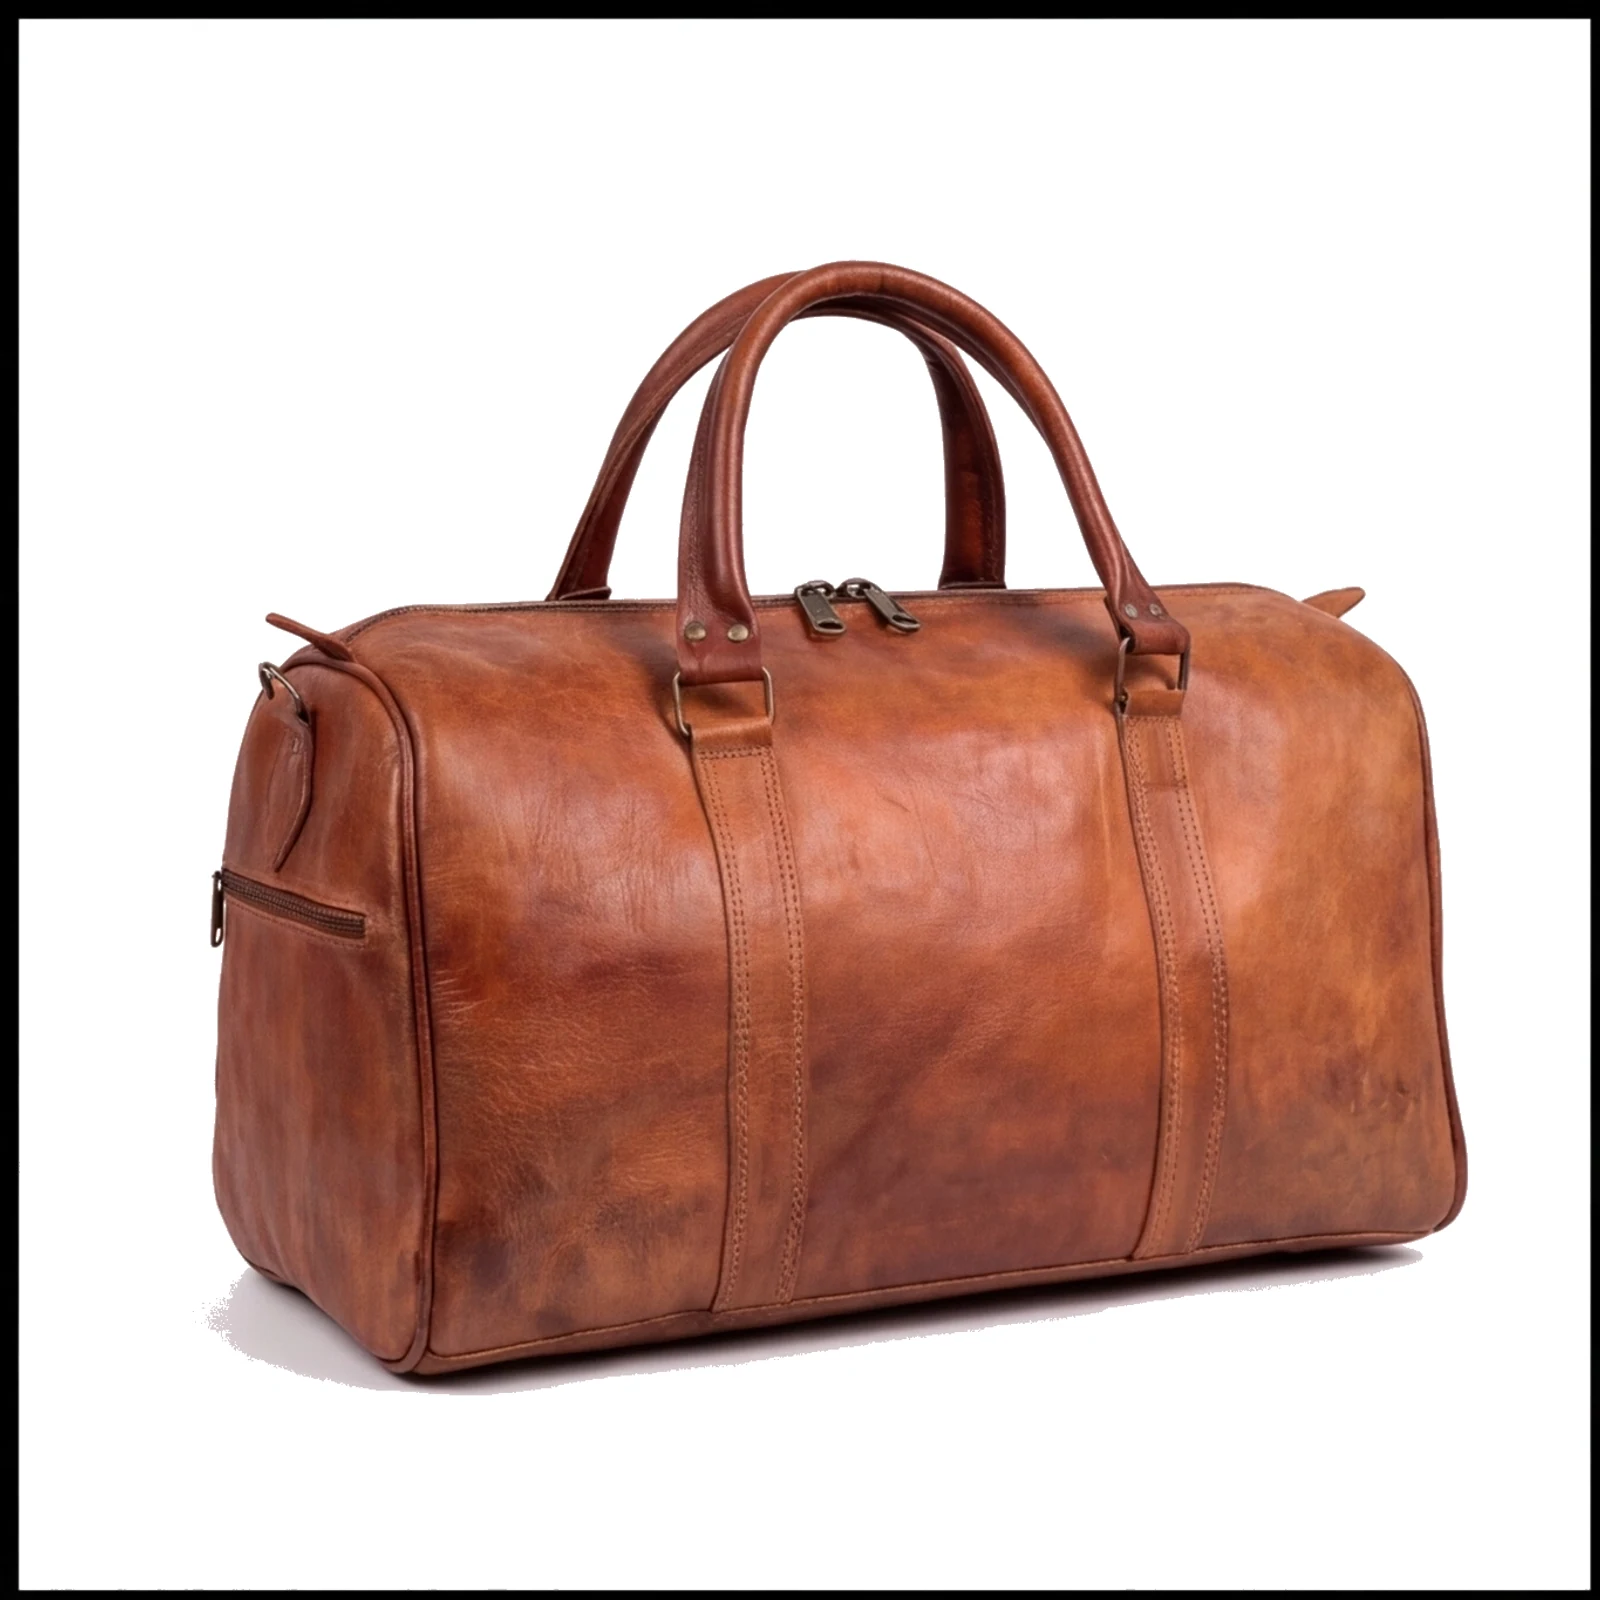
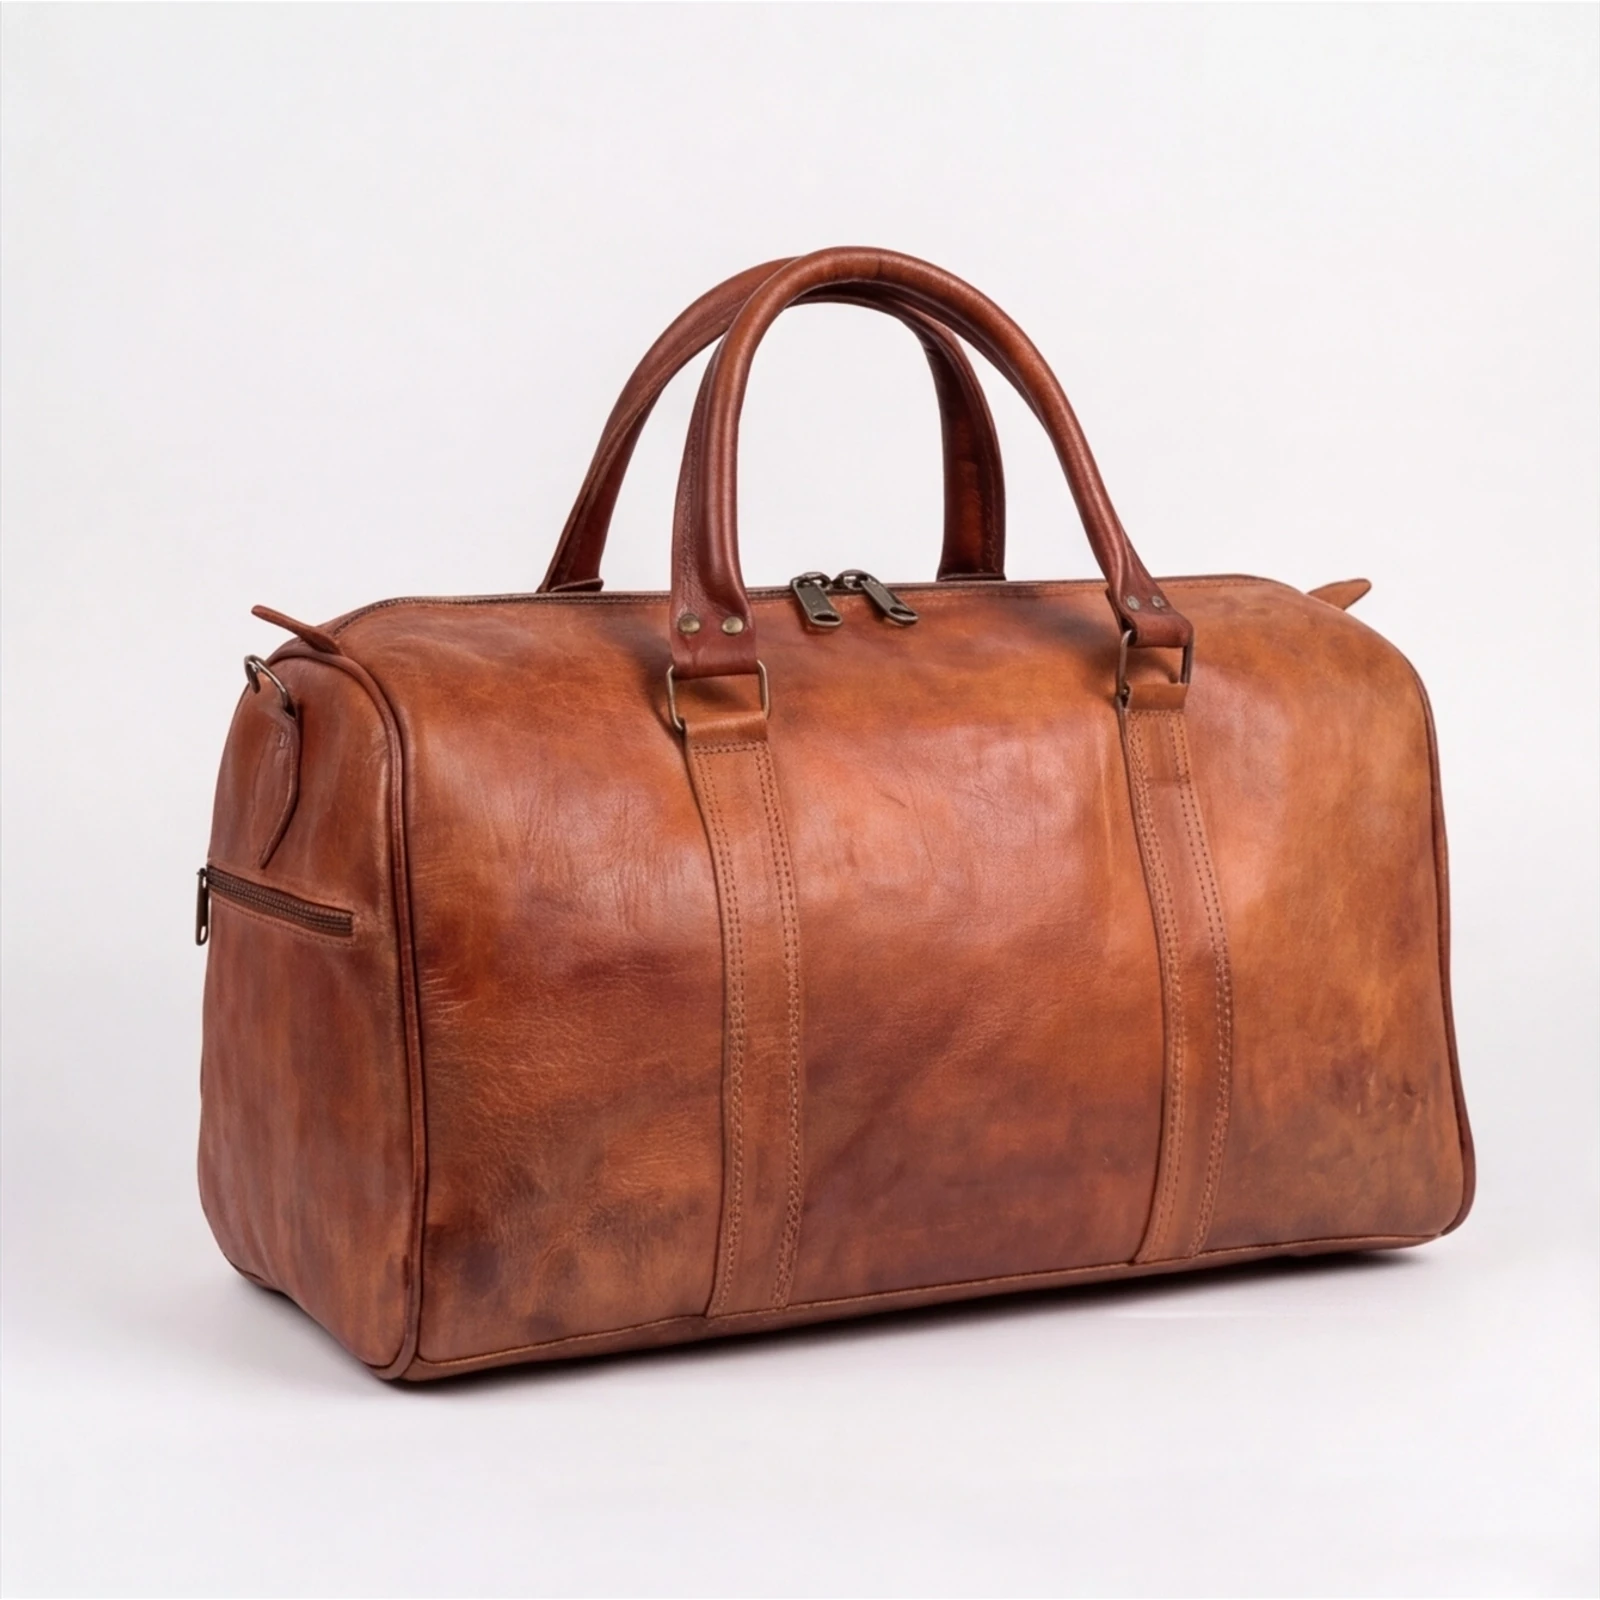
fix: remove black product frames

Changed region(s): [[0.0, 0.0, 1.0, 1.0]]

diff --git a/scripts/audit-public-links.ts b/scripts/audit-public-links.ts
@@ -14,7 +14,12 @@ const START_ROUTES = [
   "/checkout/pay",
 ];
 
-const ALLOWED_EXTERNAL_HOSTS = new Set(["instagram.com", "www.instagram.com"]);
+const ALLOWED_EXTERNAL_HOSTS = new Set([
+  "instagram.com",
+  "www.instagram.com",
+  "maisontanneurs.com",
+  "www.maisontanneurs.com",
+]);
 const IGNORED_PROTOCOLS = ["mailto:", "tel:", "sms:"];
 
 type LinkRecord = {

diff --git a/lib/products.ts b/lib/products.ts
@@ -223,8 +223,8 @@ export const STATIC_PRODUCTS: Product[] = [
       "https://xbtabpurfavngwmwtawc.supabase.co/storage/v1/object/public/products/drop-01/black-stitched-backpack-archive-4.webp"
     ],
     "category": "Backpack",
-    "status": "available",
-    "featured": true,
+    "status": "reserved",
+    "featured": false,
     "materials": [
       "Full-grain Moroccan leather",
       "Solid brass hardware",

diff --git a/scripts/audit-drive-product-sets.ts b/scripts/audit-drive-product-sets.ts
@@ -20,9 +20,7 @@ const NEEDS_FINISHED_HF_EXPORT = new Set([
   "vintage-satchel-light-brown",
 ]);
 
-const LIVE_GALLERY_ACCEPTABLE = new Set([
-  "black-stitched-backpack",
-]);
+const LIVE_GALLERY_ACCEPTABLE = new Set<string>();
 
 type FolderEvidence = {
   folder: string;

diff --git a/scripts/audit-launch-readiness.ts b/scripts/audit-launch-readiness.ts
@@ -61,9 +61,7 @@ async function main() {
 
   console.log("\n=== Remaining known non-blocking launch gaps ===");
   console.log("- Launch scope is bags and small leather goods only; no clothes/jackets.");
-  console.log(
-    "- Media ops only: archive the exact source folder for black-stitched-backpack when found; no HF generation required for launch.",
-  );
+  console.log("- No HF generation required for the current launch set.");
 
   if (failures.length > 0) {
     console.error("\n=== Launch readiness audit failed ===");

diff --git a/lib/hidden-skus.ts b/lib/hidden-skus.ts
@@ -32,6 +32,9 @@ export const HIDDEN_SKUS: ReadonlySet<string> = new Set([
   // Duplicate/scope suppression: the patterned leather + textile duffle belongs
   // to the Kilim family, so keep this duplicate commercial SKU off launch.
   "medina-duffle",
+  // Duplicate/scope suppression: Expedition Rolltop Noir is the only black bag
+  // in the launch set. Keep this older black backpack SKU off the storefront.
+  "black-stitched-backpack",
 
   // Group B — only macro shots in Storage, no canonical hero. Macros are
   // gallery-only per Turbo's convention; audit rejects them as images[0].

diff --git a/scripts/audit-public-site.ts b/scripts/audit-public-site.ts
@@ -22,6 +22,7 @@ const HIDDEN_PRODUCT_ROUTES = [
   "/products/marrakech-tote-noir",
   "/products/medina-crossbody-tassel",
   "/products/medina-duffle",
+  "/products/black-stitched-backpack",
   "/products/explorer-rolltop-noir",
 ];
 
@@ -41,6 +42,8 @@ const BAD_PUBLIC_PATTERNS = [
   /marrakech-tote-noir/i,
   /medina-crossbody-tassel/i,
   /medina-duffle/i,
+  /black-stitched-backpack/i,
+  /Black Stitched Backpack/i,
   /explorer-rolltop-noir/i,
   /jacket|outerwear|clothes|clothing|wearables/i,
   /Tannerie Chouara/i,